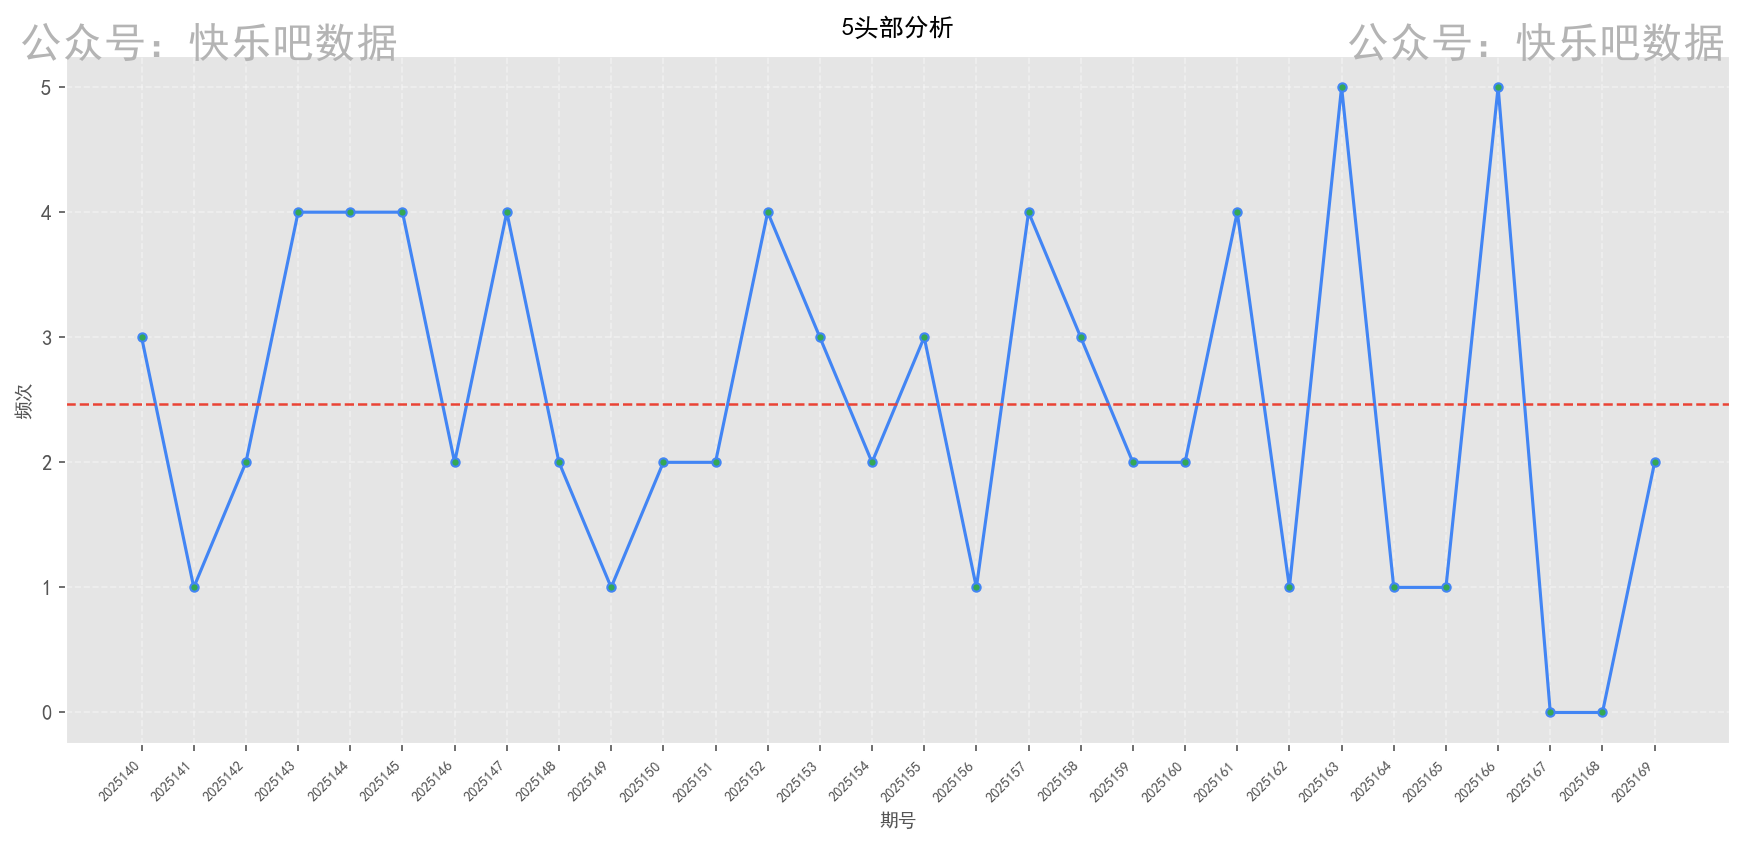
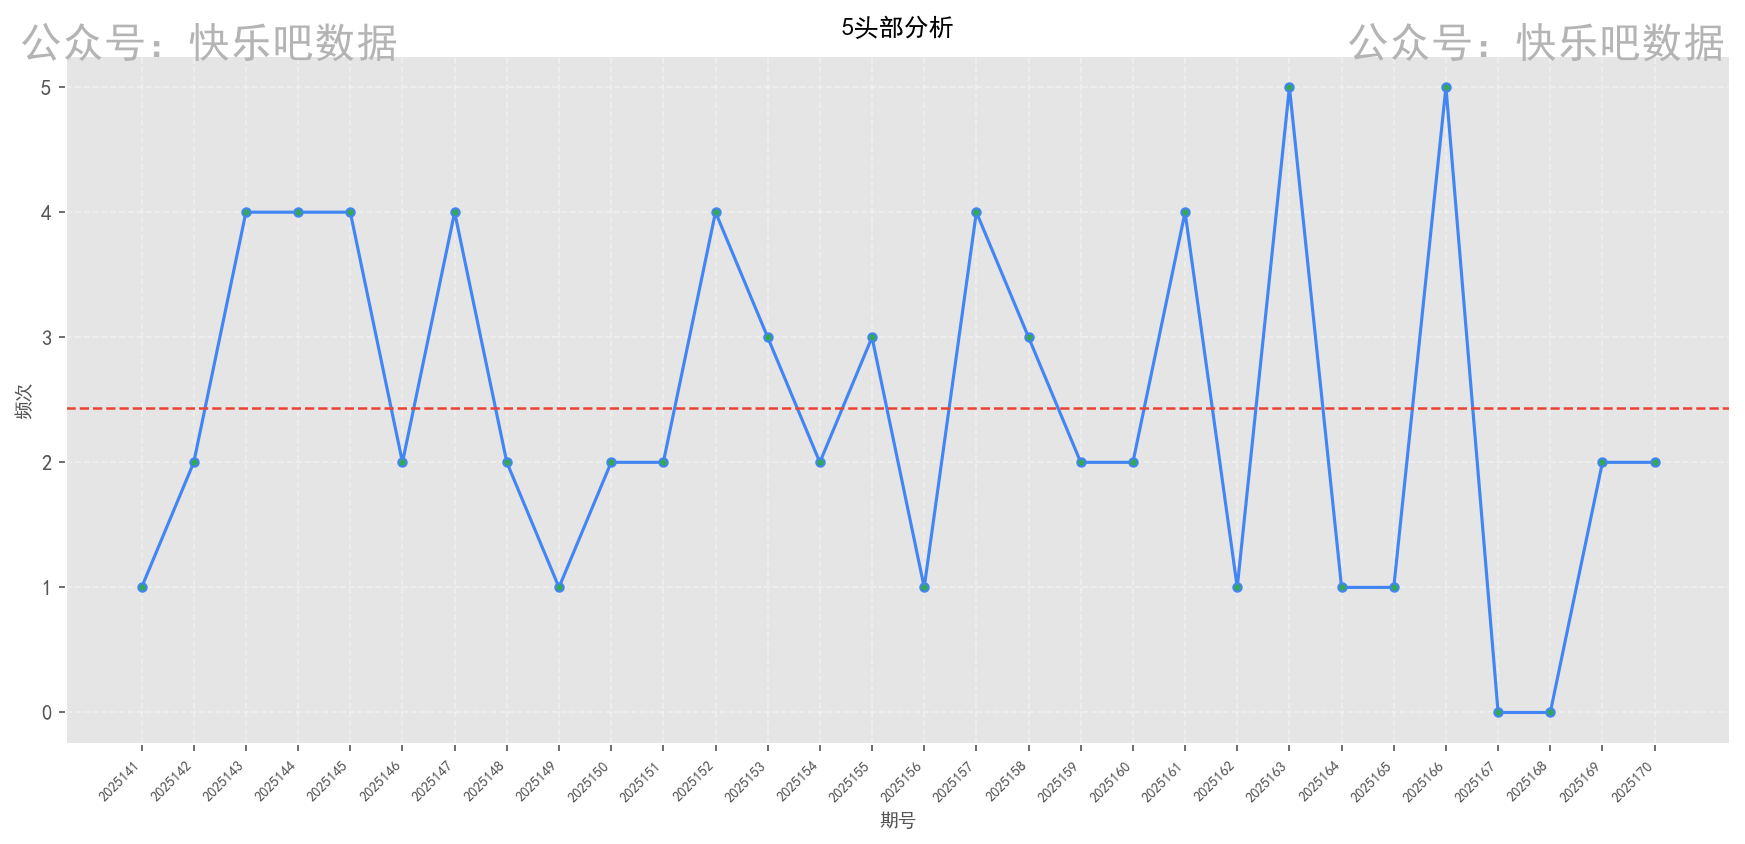
自动提交报告 20250629_2326

diff --git a/快乐8头号分析项目/数据报告/20250629/report.html b/快乐8头号分析项目/数据报告/20250629/report.html
@@ -440,7 +440,7 @@
                     <div class="label">头部区间</div>
                 </div>
                 <div class="overview-card">
-                    <div class="value">2025169</div>
+                    <div class="value">2025170</div>
                     <div class="label">最新期号</div>
                 </div>
                 <div class="overview-card">
@@ -464,11 +464,11 @@
             <div class="stats-summary">
                 <div class="stat-item">
                     <span class="stat-label">历史平均</span>
-                    <span class="stat-value">2.13</span>
+                    <span class="stat-value">2.10</span>
                 </div>
                 <div class="stat-item">
                     <span class="stat-label">近期平均</span>
-                    <span class="stat-value">1.60</span>
+                    <span class="stat-value">1.40</span>
                 </div>
                 <div class="stat-item">
                     <span class="stat-label">最高频次</span>
@@ -486,11 +486,11 @@
             <div class="stats-summary">
                 <div class="stat-item">
                     <span class="stat-label">历史平均</span>
-                    <span class="stat-value">2.67</span>
+                    <span class="stat-value">2.70</span>
                 </div>
                 <div class="stat-item">
                     <span class="stat-label">近期平均</span>
-                    <span class="stat-value">2.60</span>
+                    <span class="stat-value">3.00</span>
                 </div>
                 <div class="stat-item">
                     <span class="stat-label">最高频次</span>
@@ -508,11 +508,11 @@
             <div class="stats-summary">
                 <div class="stat-item">
                     <span class="stat-label">历史平均</span>
-                    <span class="stat-value">2.73</span>
+                    <span class="stat-value">2.77</span>
                 </div>
                 <div class="stat-item">
                     <span class="stat-label">近期平均</span>
-                    <span class="stat-value">3.20</span>
+                    <span class="stat-value">3.40</span>
                 </div>
                 <div class="stat-item">
                     <span class="stat-label">最高频次</span>
@@ -530,11 +530,11 @@
             <div class="stats-summary">
                 <div class="stat-item">
                     <span class="stat-label">历史平均</span>
-                    <span class="stat-value">2.70</span>
+                    <span class="stat-value">2.63</span>
                 </div>
                 <div class="stat-item">
                     <span class="stat-label">近期平均</span>
-                    <span class="stat-value">3.40</span>
+                    <span class="stat-value">2.60</span>
                 </div>
                 <div class="stat-item">
                     <span class="stat-label">最高频次</span>
@@ -552,7 +552,7 @@
             <div class="stats-summary">
                 <div class="stat-item">
                     <span class="stat-label">历史平均</span>
-                    <span class="stat-value">2.30</span>
+                    <span class="stat-value">2.27</span>
                 </div>
                 <div class="stat-item">
                     <span class="stat-label">近期平均</span>
@@ -574,11 +574,11 @@
             <div class="stats-summary">
                 <div class="stat-item">
                     <span class="stat-label">历史平均</span>
-                    <span class="stat-value">2.47</span>
+                    <span class="stat-value">2.43</span>
                 </div>
                 <div class="stat-item">
                     <span class="stat-label">近期平均</span>
-                    <span class="stat-value">1.60</span>
+                    <span class="stat-value">1.80</span>
                 </div>
                 <div class="stat-item">
                     <span class="stat-label">最高频次</span>
@@ -596,7 +596,7 @@
             <div class="stats-summary">
                 <div class="stat-item">
                     <span class="stat-label">历史平均</span>
-                    <span class="stat-value">2.43</span>
+                    <span class="stat-value">2.50</span>
                 </div>
                 <div class="stat-item">
                     <span class="stat-label">近期平均</span>
@@ -640,11 +640,11 @@
             <div class="stats-summary">
                 <div class="stat-item">
                     <span class="stat-label">历史平均</span>
-                    <span class="stat-value">0.37</span>
+                    <span class="stat-value">0.40</span>
                 </div>
                 <div class="stat-item">
                     <span class="stat-label">近期平均</span>
-                    <span class="stat-value">0.40</span>
+                    <span class="stat-value">0.60</span>
                 </div>
                 <div class="stat-item">
                     <span class="stat-label">最高频次</span>
@@ -668,7 +668,7 @@
         <div class="disclaimer">
             <div class="disclaimer-title"><i class="fas fa-exclamation-circle"></i> 法律声明</div>
             <p>本分析报告基于中国福利彩票官网公开数据制作，仅供历史数据分析与参考，严禁用于赌博或任何违法违规用途。</p>
-            <p>根据中国法律，禁止向未成年人传播彩票相关信息。数据统计周期: 2025140期-2025169期 | 生成时间: 2025-06-29 13:42</p>
+            <p>根据中国法律，禁止向未成年人传播彩票相关信息。数据统计周期: 2025141期-2025170期 | 生成时间: 2025-06-29 23:26</p>
         </div>
 
         <!-- 操作按钮 -->

diff --git a/index.html b/index.html
@@ -51,7 +51,7 @@
                 立即查看今日报告
             </a>
         </p>
-        <p>生成时间: 2025-06-29 14:43</p>
+        <p>生成时间: 2025-06-29 23:26</p>
     </div>
 
     <script>
